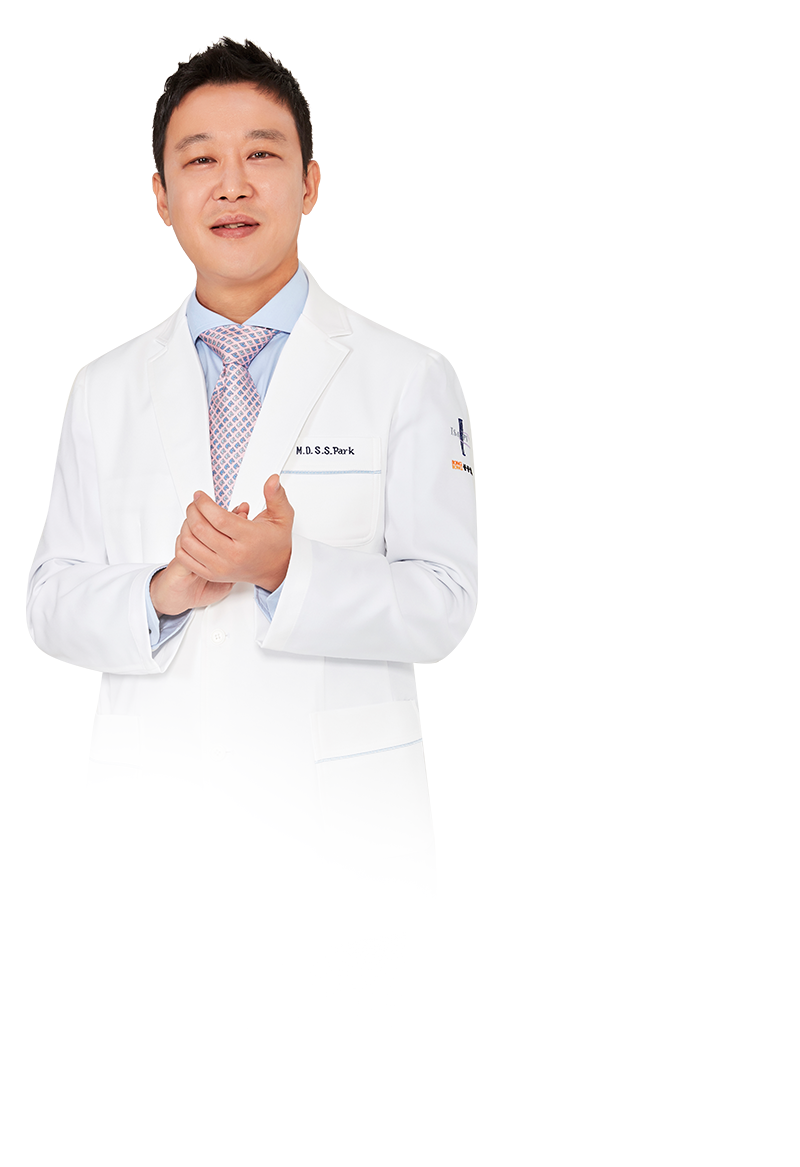
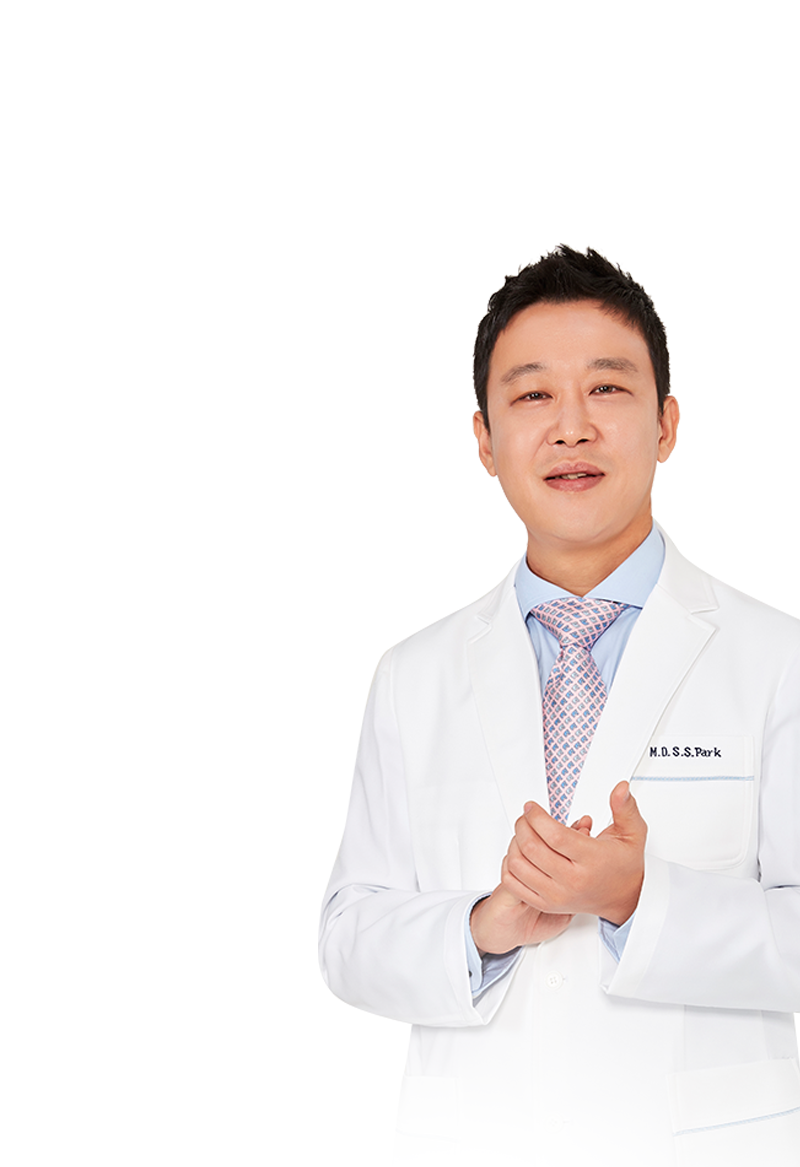
edit boss photo

diff --git a/abc/index.html b/abc/index.html
@@ -164,7 +164,8 @@
       
       <div id="scene">
           <div data-depth="0.1"><img class="img-fluid" src="assets/img/home/layer3.png"></div>
-          <div data-depth="0.2"><img class="img-fluid" src="assets/img/home/layer-2.png"></div>
+          <div data-depth="0.3"><img class="img-fluid" src="assets/img/home/layer-4.png"></div>
+          <div data-depth="0.6"><img class="img-fluid" src="assets/img/home/layer-2.png"></div>
           <div data-depth="1"><img class="img-fluid" src="assets/img/home/layer-1.png"></div>
         </div>
       
